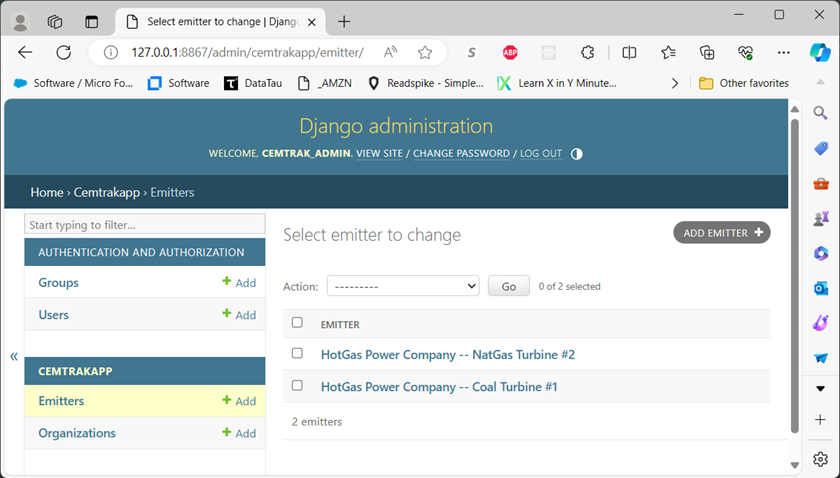
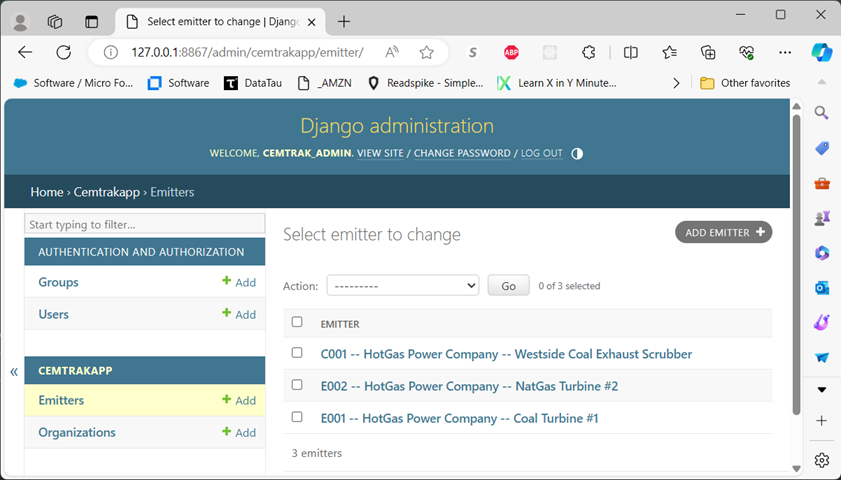
Emitters and Compensators now have a required, unique external ID field.

diff --git a/cemtrakapp/models.py b/cemtrakapp/models.py
@@ -19,6 +19,7 @@ class Organization(models.Model):
 
 class Emitter(models.Model):
     name = models.CharField(max_length=255)
+    external_id = models.CharField(max_length=255, unique=True)
     # emitters add carbon to the atmosphere; compensators remove carbon from the atmosphere
     is_compensator = models.BooleanField(default=False)
     measurement_unit = models.CharField(
@@ -35,4 +36,4 @@ class Emitter(models.Model):
     updated = models.DateTimeField(auto_now=True)
 
     def __str__(self):
-        return f'{self.organization} -- {self.name}'
+        return f'{self.external_id} -- {self.organization} -- {self.name}'

diff --git a/cemtrakapp/migrations/0003_emitter_external_id.py b/cemtrakapp/migrations/0003_emitter_external_id.py
@@ -1,0 +1,19 @@
+# Generated by Django 5.0.6 on 2024-05-12 22:26
+
+from django.db import migrations, models
+
+
+class Migration(migrations.Migration):
+
+    dependencies = [
+        ('cemtrakapp', '0002_emitter_is_compensator_and_more'),
+    ]
+
+    operations = [
+        migrations.AddField(
+            model_name='emitter',
+            name='external_id',
+            field=models.CharField(default='unk', max_length=255),
+            preserve_default=False,
+        ),
+    ]

diff --git a/cemtrakapp/migrations/0004_alter_emitter_external_id.py b/cemtrakapp/migrations/0004_alter_emitter_external_id.py
@@ -1,0 +1,18 @@
+# Generated by Django 5.0.6 on 2024-05-12 22:30
+
+from django.db import migrations, models
+
+
+class Migration(migrations.Migration):
+
+    dependencies = [
+        ('cemtrakapp', '0003_emitter_external_id'),
+    ]
+
+    operations = [
+        migrations.AlterField(
+            model_name='emitter',
+            name='external_id',
+            field=models.CharField(max_length=255, unique=True),
+        ),
+    ]

diff --git a/Readme.md b/Readme.md
@@ -7,7 +7,14 @@
 ### 4 main parts:
 - IN-PROCESS: This Django (Python) web app for managing Organizations and their carbon Emitters
 - TODO: A Fastify (Nodejs, Javascript) REST API logging emitter time series data
-- TODO: A FastAPI (Python) REST API for querying and analyzing the data
-- TODO: A web front end for visualizing the data
+- TODO: A FastAPI (Python) REST API for querying and analyzing the emitter data
+- TODO: A web front end for visualizing the emitter data
 
 ![an image of the Django admin screen for emitters](admin_emitters.png)
+
+### Details:
+- Organizations have many Emitters
+- Emitters have a name, an external ID and carbon emission specs for high, medium, low and off states
+- Normally, Emitters add carbon to the atmosphere
+- A special case of Emitters, called Compensators, remove carbon from the atmosphere
+- A Compensator might be a scrubber device or the purchase of carbon offsets
